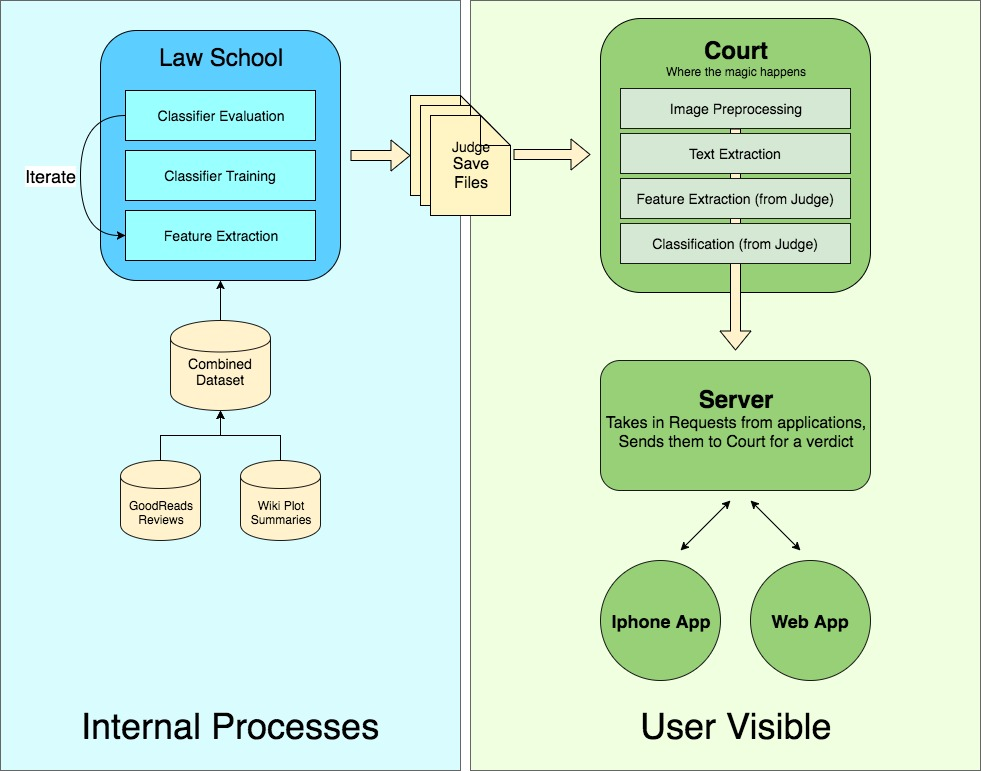
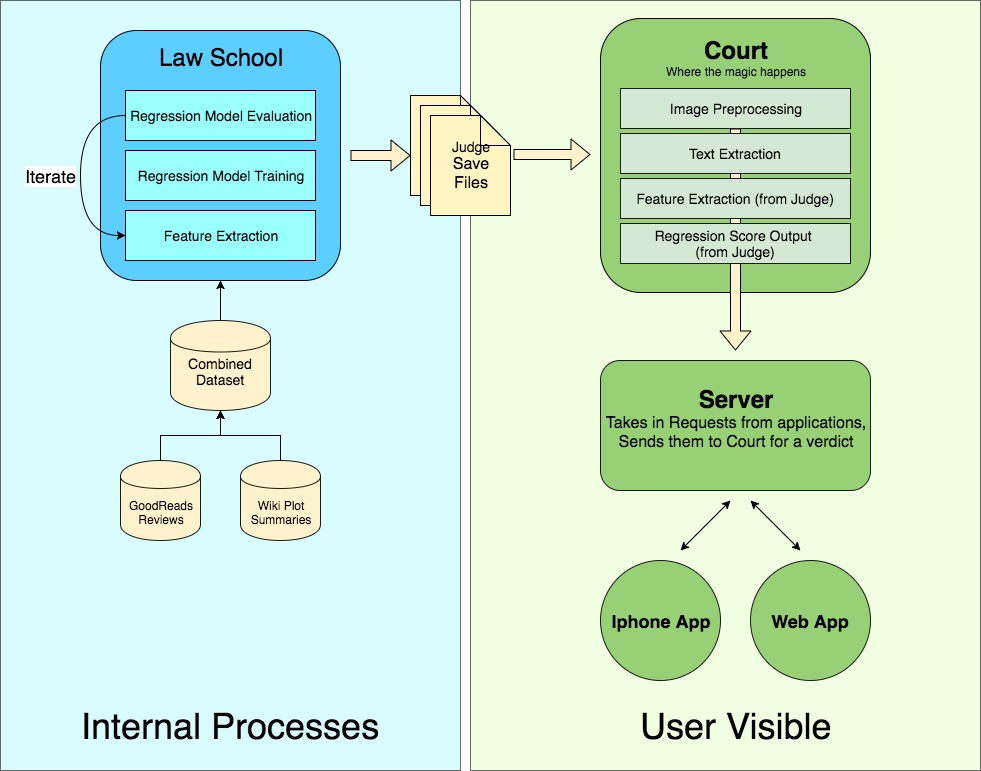
updated more documentation

Changed region(s): [[0.6728, 0.2802, 0.8257, 0.3424], [0.1223, 0.2179, 0.3058, 0.249], [0.1223, 0.1245, 0.3058, 0.1556]]

diff --git a/court/README.md b/court/README.md
@@ -1,13 +1,13 @@
 # Court
 
-Court is the directory for all things Judge related. In other words, this is where the evidence (a picture) is sent to and presented to the Judge (a classifier). The Judge makes a verdict and returns that rating back to the caller (the server).
+Court is the directory for all things Judge related. In other words, this is where the evidence (a picture) is sent to and presented to the Judge (a regression model). The Judge makes a verdict and returns that rating back to the caller (the server).
 
 In more detail:
 
 A Judge consists of two things:
-1. A classifier trained on the data
+1. A regression model trained on the data
 2. The feature extractor used to extract the features it was trained on
 
-The first is used for prediction.
+The first is used for output regression score.
 
-The second is required so that given an input string (the book summary) a feature vector can be extracted and used for prediction.
+The second is required so that given an input string (the book summary) a feature vector can be extracted and used for regression scores.
